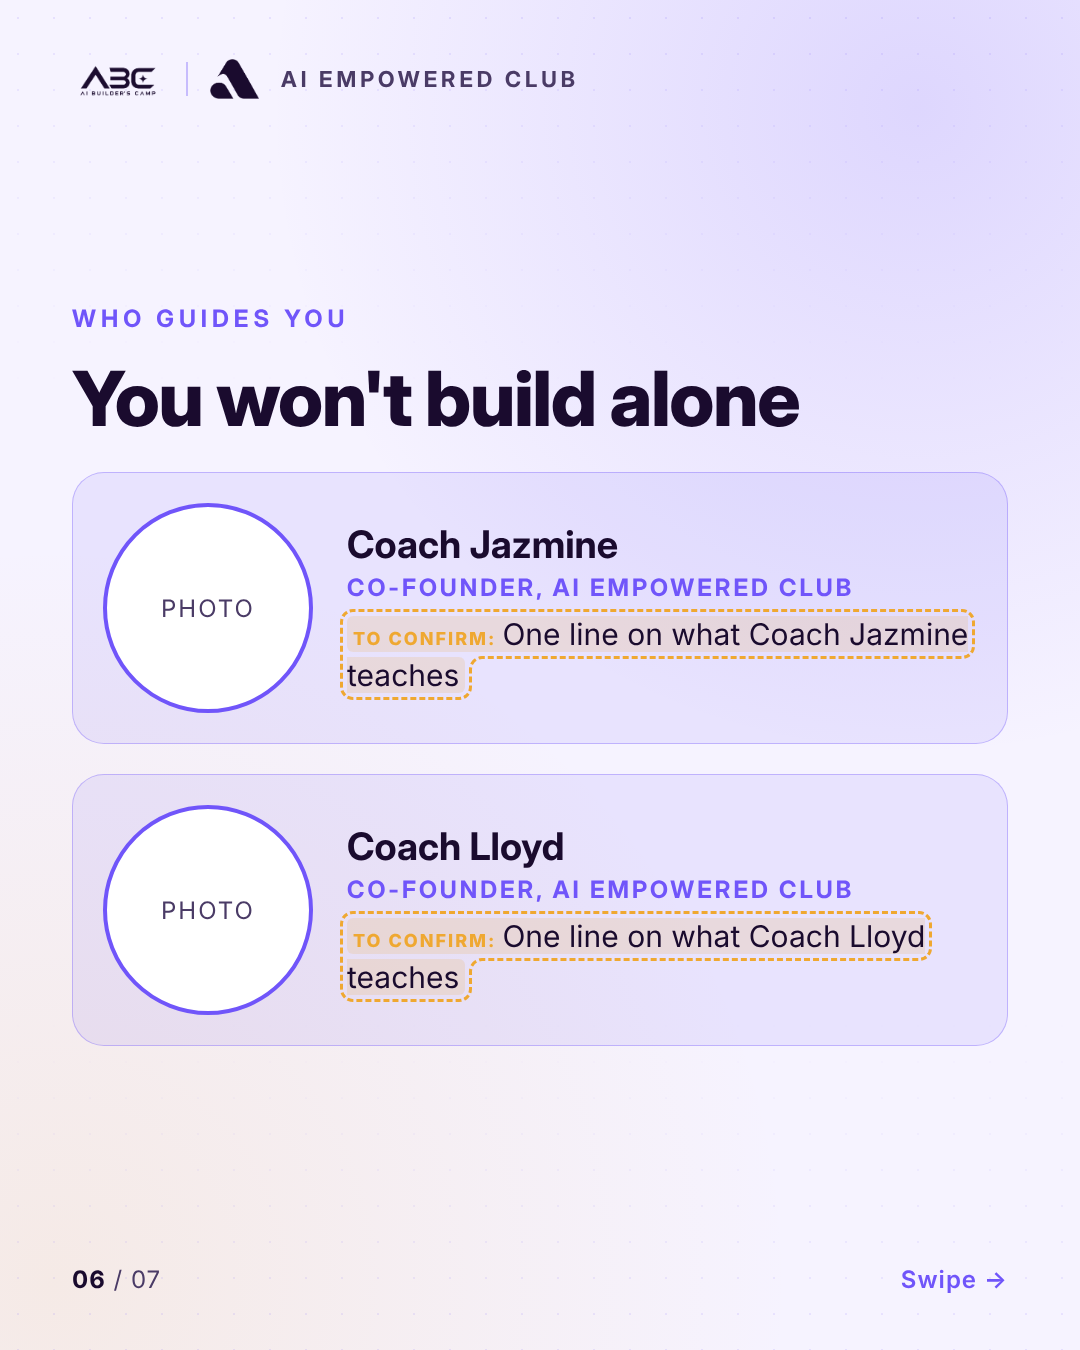
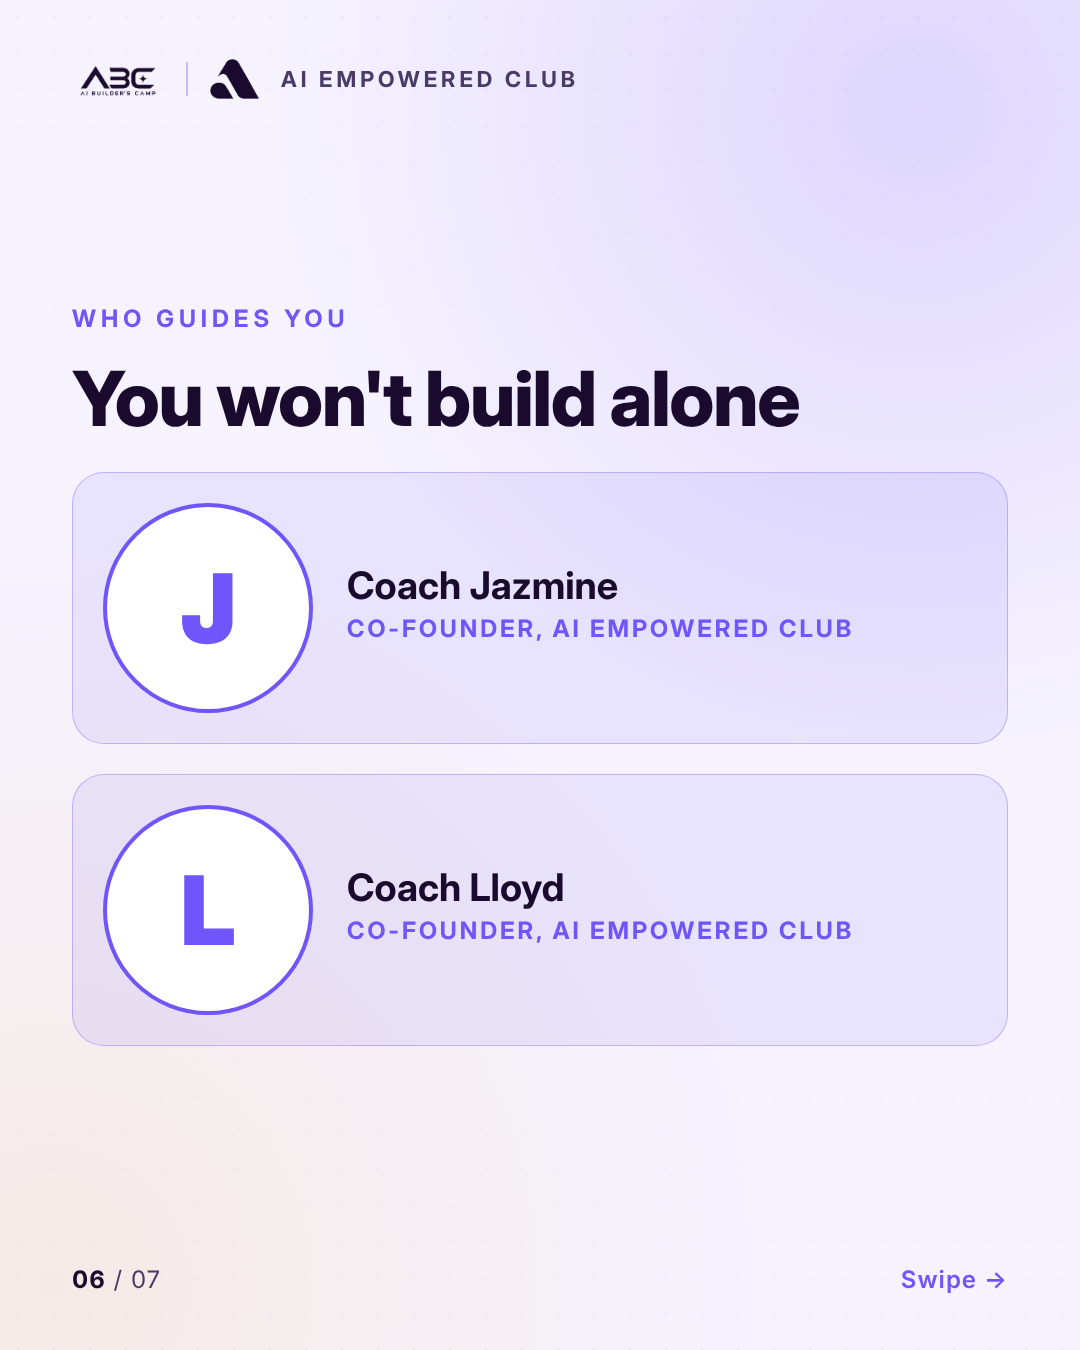
Make the Tuesday ABC intro carousel publishable
Drops unconfirmed copy and shows initials until founder photos arrive.

Claude-Session: https://claude.ai/code/session_01DXbLJDhLPQCbaKeN4ztZTn

diff --git a/fb-page-poster/make-carousel.js b/fb-page-poster/make-carousel.js
@@ -137,7 +137,7 @@ function people(s) {
     ${s.kicker ? `<div class="kicker">${rich(s.kicker)}</div>` : ''}
     <h1>${rich(s.title)}</h1>
     <div class="people n${s.people.length}">${s.people.map((p) => `<div class="person">
-      <div class="photo">${p.photo ? `<img src="${p.photo}">` : '<span>Photo</span>'}</div>
+      <div class="photo">${p.photo ? `<img src="${p.photo}">` : `<span class="initial">${escape(p.name.replace(/^Coach\s+/i, '').charAt(0))}</span>`}</div>
       <div><h3>${rich(p.name)}</h3><div class="role">${rich(p.role || '')}</div><p>${rich(p.detail || '')}</p></div>
     </div>`).join('')}</div>
   </div>`;
@@ -225,6 +225,7 @@ h3{font-family:'Inter Display';font-weight:700;font-size:38px;margin:0 0 6px}
 .people{display:flex;flex-direction:column;gap:30px}
 .person{display:flex;gap:34px;align-items:center;background:${c.soft};border:1.5px solid ${c.line};border-radius:32px;padding:30px}
 .photo{flex:none;width:210px;height:210px;border-radius:50%;border:4px solid ${c.accent};overflow:hidden;display:flex;align-items:center;justify-content:center;background:${light ? '#fff' : BRAND.deep};color:${c.sub};font-size:24px;letter-spacing:2px;text-transform:uppercase}
+.initial{font-family:'Inter Display';font-weight:900;font-size:96px;letter-spacing:0;color:${c.accent}}
 .photo img{width:100%;height:100%;object-fit:cover}
 .people.n1 .photo{width:300px;height:300px}
 .role{font-family:'Inter Display';font-weight:700;font-size:24px;letter-spacing:3px;text-transform:uppercase;color:${c.accent};margin-bottom:12px}
